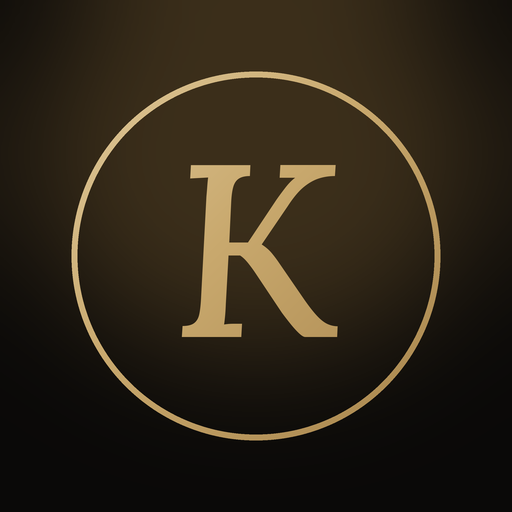
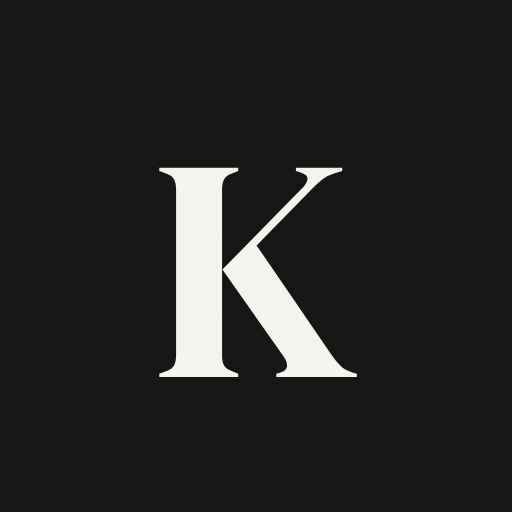
Kennach v20 : design Atelier, plus d'émoji, 9 bugs corrigés

diff --git a/index.html b/index.html
@@ -4,7 +4,7 @@
 <meta charset="utf-8">
 <meta name="viewport" content="width=device-width, initial-scale=1, viewport-fit=cover">
 <title>Kennach</title>
-<meta name="theme-color" content="#0A0908">
+<meta name="theme-color" content="#F5F3EE">
 <meta name="apple-mobile-web-app-capable" content="yes">
 <meta name="mobile-web-app-capable" content="yes">
 <meta name="apple-mobile-web-app-status-bar-style" content="black-translucent">
@@ -834,7 +834,7 @@ body.noms [data-prov=ms],body.noms [data-act=mslink],body.noms .msonly{display:n
 
 body.sa [data-nav=mails],body.sa [data-nav=veille],body.sa [data-nav=photo],body.sa [data-nav=ask],body.sa [data-nav=import],body.sa [data-act=askact]{display:none!important}
 </style>
-<link rel="preconnect" href="https://fonts.googleapis.com"><link rel="preconnect" href="https://fonts.gstatic.com" crossorigin><link href="https://fonts.googleapis.com/css2?family=Cormorant+Garamond:ital,wght@0,500;0,600;1,500;1,600&family=Manrope:wght@400;500;600;700&display=swap" rel="stylesheet">
+<link rel="preconnect" href="https://fonts.googleapis.com"><link rel="preconnect" href="https://fonts.gstatic.com" crossorigin><link href="https://fonts.googleapis.com/css2?family=DM+Serif+Display&family=DM+Sans:opsz,wght@9..40,400;9..40,500;9..40,600;9..40,700&display=swap" rel="stylesheet">
 <style id="kdesign">/* ===== Kennach · « Maison » (v13) : noir, ivoire et or ===== */
 html body.sa{
  --serif:"Cormorant Garamond","Cormorant",Didot,"Bodoni 72","Playfair Display",Georgia,serif;
@@ -1306,6 +1306,59 @@ html body.sa .ach-next.done{font:600 15px/1.3 var(--f);color:var(--gold);padding
 html body.sa .ach-rt{flex-direction:column;align-items:flex-start;gap:2px}
 html body.sa .ach-rt b{max-width:100%;white-space:normal;display:-webkit-box;-webkit-line-clamp:2;-webkit-box-orient:vertical}
 html body.sa .ach-rt span{white-space:nowrap;overflow:hidden;text-overflow:ellipsis;max-width:100%}
+
+/* ================= v20 : design « Atelier » (ivoire, encre, DM Serif + DM Sans) — remplace l'or ================= */
+html body.sa{--serif:"DM Serif Display",Georgia,"Times New Roman",serif;--f:"DM Sans",-apple-system,BlinkMacSystemFont,"Segoe UI Variable Text","Segoe UI",system-ui,sans-serif;--f-d:var(--serif)}
+html.klight body.sa{--bg:#F5F3EE;--surface:#FFFFFF;--surface-2:#EEEBE4;--surface-3:#E2DED5;--ink:#161616;--text:#1E1E1E;--text-2:#55524C;--text-3:#77736B;--gold:#161616;--gold-2:#2B2B2B;--gold-3:#161616;--gold-grad:linear-gradient(180deg,#262626,#111111);--on-gold:#FFFFFF;--accent:#161616;--accent-soft:rgba(22,22,22,.06);--line:rgba(22,22,22,.2);--border:rgba(22,22,22,.09);--border-2:rgba(22,22,22,.16);--glow:transparent;--glow2:transparent;--red:#B3261E;--e1:0 1px 2px rgba(22,22,22,.04);--e2:0 18px 40px -24px rgba(22,22,22,.22);--e3:0 30px 80px -30px rgba(22,22,22,.28),0 0 0 1px var(--border)}
+html.kdark body.sa{--bg:#111111;--surface:#1A1A1A;--surface-2:#222222;--surface-3:#2C2C2C;--ink:#F3F1EC;--text:#E9E6E0;--text-2:#A9A59D;--text-3:#7B776F;--gold:#F3F1EC;--gold-2:#DEDAD2;--gold-3:#FFFFFF;--gold-grad:linear-gradient(180deg,#FFFFFF,#E3DFD7);--on-gold:#111111;--accent:#F3F1EC;--accent-soft:rgba(243,241,236,.07);--line:rgba(243,241,236,.22);--border:rgba(243,241,236,.08);--border-2:rgba(243,241,236,.15);--glow:transparent;--glow2:transparent;--red:#F2786C;--e1:0 1px 0 rgba(255,255,255,.03) inset;--e2:0 24px 50px -24px rgba(0,0,0,.8);--e3:0 40px 120px -30px rgba(0,0,0,.9),0 0 0 1px var(--border)}
+html body.sa{font-family:var(--f)}
+html body.sa h1,html body.sa h2,html body.sa .greet,html body.sa .hero,html body.sa .hero *,html body.sa .writebtn *,html body.sa .cmp-t,html body.sa .ncard-t,html body.sa .know-h span,html body.sa .achq-h b{font-style:normal!important}
+html body.sa .greet,html body.sa h1{background:none!important;-webkit-text-fill-color:currentColor!important;color:var(--ink)!important}
+html body.sa h1{letter-spacing:-.01em;font-weight:400}
+html body.sa::after,html body.sa::before{display:none!important}
+html body.sa .btn.pri,html body.sa .cmp-done{background:var(--gold-grad)!important;color:var(--on-gold)!important;box-shadow:none!important;border:0!important}
+html body.sa .lbl2,html body.sa .grp{letter-spacing:.12em}
+html body.sa .grp::before{color:var(--text-3)!important}
+html.klight body.sa .writebtn,html.kdark body.sa .writebtn{background:var(--surface)!important;border:1px solid var(--border-2)!important;box-shadow:var(--e1)!important}
+html body.sa .know,html body.sa .achq{background:var(--surface)!important}
+html body.sa .ach-st.cur,html body.sa .know-sign{background:var(--accent-soft)!important}
+#klogin{background:#F5F3EE!important;color:#161616!important;font-family:"DM Sans",-apple-system,"Segoe UI",system-ui,sans-serif!important}
+#klogin h1{font-family:"DM Serif Display",Georgia,serif!important;font-style:normal!important;font-weight:400!important;color:#161616!important;-webkit-text-fill-color:#161616!important;background:none!important;letter-spacing:-.01em!important}
+#klogin p,#klogin .klast{color:#55524C!important}
+#klogin .klast b{color:#161616!important}
+#klogin .lg{background:#161616!important;color:#F5F3EE!important;font-family:"DM Serif Display",Georgia,serif!important;font-style:normal!important}
+#klogin #kgo{background:#161616!important;color:#FFFFFF!important;border:0!important}
+#klogin button:not(#kgo){background:#FFFFFF!important;color:#161616!important;border:1px solid rgba(22,22,22,.16)!important}
+/* v20 : message qui ne bloque rien, au-dessus de la barre du bas */
+html body.sa .toast,html body.sa .toast.on{pointer-events:none!important}
+html body.sa .toast #tu,html body.sa .toast button{pointer-events:auto!important}
+@media (max-width:820px){html body.sa .toast{bottom:calc(96px + env(safe-area-inset-bottom,0px))!important}}
+/* v20 : la date d'Aujourd'hui n'est jamais coupée */
+html body.sa .hdr.hero{gap:12px}
+html body.sa .hdr.hero{flex-wrap:nowrap;align-items:flex-start}
+html body.sa .hdr.hero>div:first-child{flex:1 1 auto!important;min-width:0!important;width:auto!important}
+html body.sa .hdr.hero>.act{flex:0 0 auto!important;width:auto!important;min-width:0!important}
+html body.sa .hdr.hero .greet{white-space:nowrap!important;overflow:hidden;text-overflow:ellipsis;display:block}
+html body.sa .hdr.hero .date-big{white-space:normal!important;overflow:visible!important;text-overflow:clip!important;overflow-wrap:break-word;font-size:clamp(34px,10.5vw,54px)!important;line-height:1.02!important}
+/* v20 : icônes fines à la place des émojis */
+html body.sa .kicw{display:inline-flex;vertical-align:-2px;margin-right:4px}
+html body.sa .kicw .kic{width:15px;height:15px}
+html.klight body.sa .greet,html.kdark body.sa .greet{color:var(--text-2)!important;-webkit-text-fill-color:var(--text-2)!important;letter-spacing:.18em}
+/* v20 : finitions Atelier vues sur capture */
+html body.sa,html body.sa *{font-synthesis-weight:none;font-synthesis:none}
+html body.sa .date-big,html body.sa .hero .date-big *{background:none!important;-webkit-text-fill-color:var(--ink)!important;color:var(--ink)!important;font-weight:400!important}
+html body.sa h1,html body.sa .know-h span,html body.sa .achq-h b,html body.sa .ncard-t,html body.sa .cmp-t{font-weight:400!important}
+html body.sa ::placeholder{font-style:normal!important}
+#klogin .lg{box-shadow:none!important;filter:none!important}
+#klogin .lg::before,#klogin .lg::after{display:none!important}
+html body.sa .toast{background:var(--ink)!important;color:var(--bg)!important;white-space:nowrap;max-width:calc(100% - 32px)}
+html body.sa .toast span{overflow:hidden;text-overflow:ellipsis}
+html body.sa .toast span::before{background:currentColor!important;opacity:.5}
+html body.sa .toast button{color:var(--bg)!important;opacity:.85}
+/* v20 : une note qui se ferme ne bloque plus les clics pendant son animation */
+html body.sa .drawer:not(.on){pointer-events:none!important}
+/* v20 : titre d'une note ou d'un dossier entier sur téléphone (DM Serif est large) */
+@media (max-width:820px){html body.sa #drawer .cmp-t{font-size:clamp(24px,7.4vw,30px)!important;letter-spacing:-.005em}}
 </style>
 </head>
 <body>
@@ -3380,7 +3433,7 @@ const PLUR=[[/(\b1|\b0) élément\(s\)/g,"$1 élément"],[/élément\(s\)/g,"él
 /* [42] pluriels aussi dans les messages */
 {const _t9=toast;toast=function(msg,undo,cls,ms){let s=String(msg);s=s.replace(/\b([01]) ([a-zéèêàçûô]+)\(s\)/gi,"$1 $2").replace(/\b(\d+) ([a-zéèêàçûô]+)\(s\)/gi,"$1 $2s").replace(/\(s\)/g,"s");return _t9(s,undo,cls,ms)}}
 /* version visible (pour vérifier la mise à jour) */
-const KVER="19";
+const KVER="20";
 {const _rs12=renderSide;renderSide=function(){_rs12();const b=$("#side .brand span");if(b&&!$("#side .kver"))b.insertAdjacentHTML("afterend",`<span class="kver">v${KVER}</span>`)}}
 {const _vs12=V.settings;V.settings=()=>_vs12().replace("<b>Système</b>",`<b>Système</b> <span class="kver">version ${KVER}</span>`)}
 
@@ -3917,6 +3970,7 @@ document.addEventListener("click",e=>{const x=e.target.closest&&e.target.closest
  const kind=/resiliation/.test(norm(title+" "+body))?"resiliation":/contrat/.test(norm(title+" "+body))?"contrat":"achat";
  const a=achNew({title,body,space:c.space||null,kind});if(old){a.id=old.id;a.createdAt=old.createdAt}
  if(old&&old.remindAt){a.remindAt=old.remindAt;a.reminded=old.reminded}
+ if(old&&old.due)a.due=old.due;
  putItem(a);try{localStorage.removeItem("k_cmpdraft")}catch(_){}U.cmp=null;$("#drawer").classList.remove("compose");achOpen(a.id);U.ach.isNew=true},true);
 
 /* ---------- page Achats ---------- */
@@ -3936,7 +3990,7 @@ V.achats=()=>{const L=achList().sort((x,y)=>new Date(y.updatedAt||y.createdAt)-n
 document.addEventListener("click",e=>{const t=e.target.closest&&e.target.closest("[data-act=achnew]");if(!t)return;e.preventDefault();e.stopImmediatePropagation();achOpen(null)},true);
 /* Plus : Achats sous « En attente de » */
 {const _ms19=moreSheet;moreSheet=function(){const r=_ms19.apply(this,arguments);const w=document.querySelector('#drawer [data-nav="waiting"]');if(w&&!document.querySelector('#drawer [data-nav="achats"]')){const n=Object.values(achSignQueue()).flat().length;
- w.insertAdjacentHTML("afterend",`<button class="sp" style="display:flex;gap:12px;align-items:center;padding:12px 14px" data-nav="achats"><span class="ic" style="width:24px;height:24px">${ICN.edit||I.note}</span><div style="flex:1;min-width:0"><b style="font-size:15px">Achats</b><p style="margin:0">BC, factures, parapheur : qui doit signer quoi</p></div>${n?`<span class="chip t-task">${n}</span>`:""}</button>`)}return r}}
+ w.insertAdjacentHTML("afterend",`<button class="sp" style="display:flex;gap:12px;align-items:center;padding:12px 14px" data-nav="achats"><span class="ic" style="width:24px;height:24px"><svg width="20" height="20" viewBox="0 0 24 24" fill="none" stroke="currentColor" stroke-width="1.7" stroke-linecap="round" stroke-linejoin="round"><path d="M3.5 7.5a2 2 0 0 1 2-2h4l2 2h7a2 2 0 0 1 2 2v8a2 2 0 0 1-2 2h-13a2 2 0 0 1-2-2z"/></svg></span><div style="flex:1;min-width:0"><b style="font-size:15px">Achats</b><p style="margin:0">BC, factures, parapheur : qui doit signer quoi</p></div>${n?`<span class="chip t-task">${n}</span>`:""}</button>`)}return r}}
 {const i=MORE_V.indexOf("achats");if(i<0)MORE_V.push("achats")}
 /* Notes : les dossiers ont leur page, ils ne s'affichent pas dans Notes */
 {const _vn19=V.notes;V.notes=()=>{const L=achList();L.forEach(i=>{i.__ad=i.deletedAt;i.deletedAt="__ach"});try{return _vn19()}finally{L.forEach(i=>{i.deletedAt=i.__ad||null;delete i.__ad})}}}
@@ -3946,6 +4000,38 @@ function achNowRow(){if(U.view!=="today")return;const v=$("#view");if(!v||v.quer
  const n=Object.values(q).flat().length;const hd=k.querySelector(".know-h b");if(hd)hd.textContent=String((+hd.textContent||0)+new Set(Object.values(q).flat().map(i=>i.id)).size);
  k.querySelector(".know-h").insertAdjacentHTML("afterend",`<button class="know-sign" data-nav="achats"><b>À faire signer</b><span>${names.sort((a,b)=>q[b].length-q[a].length).map(nm=>esc(nm)+" ("+q[nm].length+")").join(" · ")}</span></button>`)}
 {const _r19=render;render=function(){_r19.apply(this,arguments);try{achNowRow()}catch(_){}}}
+
+/* ================= v20 : design Atelier + bugs du robot ================= */
+/* [B] émojis d'interface → icônes fines (règle de design). Le texte de l'utilisateur n'est jamais touché. */
+const K20_SVG=p=>`<svg class="kic" width="15" height="15" viewBox="0 0 24 24" fill="none" stroke="currentColor" stroke-width="1.7" stroke-linecap="round" stroke-linejoin="round" aria-hidden="true">${p}</svg>`;
+const K20_ICON={
+ "⏳":K20_SVG('<circle cx="12" cy="12" r="8.5"/><path d="M12 7.5V12l3 2"/>'),
+ "☑":K20_SVG('<rect x="4" y="4" width="16" height="16" rx="3"/><path d="m8.5 12 2.5 2.5 4.5-5"/>'),
+ "📌":K20_SVG('<path d="M9 4h6l-1 5 3 3H7l3-3z"/><path d="M12 15v5"/>'),
+ "📅":K20_SVG('<rect x="4" y="5" width="16" height="15" rx="2.5"/><path d="M4 10h16M9 3v4M15 3v4"/>'),
+ "🗓":K20_SVG('<rect x="4" y="5" width="16" height="15" rx="2.5"/><path d="M4 10h16M9 3v4M15 3v4"/>'),
+ "🔔":K20_SVG('<path d="M6 16V11a6 6 0 0 1 12 0v5l1.5 2h-15z"/><path d="M10 20a2 2 0 0 0 4 0"/>'),
+ "✉":K20_SVG('<rect x="3.5" y="5.5" width="17" height="13" rx="2.5"/><path d="m4.5 7 7.5 6 7.5-6"/>'),
+ "📁":K20_SVG('<path d="M3.5 7.5a2 2 0 0 1 2-2h4l2 2h7a2 2 0 0 1 2 2v8a2 2 0 0 1-2 2h-13a2 2 0 0 1-2-2z"/>'),
+ "🎙":K20_SVG('<rect x="9" y="3.5" width="6" height="11" rx="3"/><path d="M6 11a6 6 0 0 0 12 0M12 17v3.5"/>'),
+ "📓":K20_SVG('<path d="M6 4h11a1 1 0 0 1 1 1v15H7a2 2 0 0 1-2-2V5a1 1 0 0 1 1-1z"/><path d="M9 8h6"/>'),
+ "📥":K20_SVG('<path d="M4 13h4l1.5 2.5h5L16 13h4v5a2 2 0 0 1-2 2H6a2 2 0 0 1-2-2z"/><path d="M12 4v8m-3-3 3 3 3-3"/>'),
+ "⬇":K20_SVG('<path d="M12 4v11m-4.5-4.5L12 15l4.5-4.5M5 20h14"/>')
+};
+const K20_ANY=/(?![\u2713\u2714\u2717\u2715])[\u{1F300}-\u{1FAFF}\u{2600}-\u{27BF}\u{2B00}-\u{2BFF}\u{1F000}-\u{1F2FF}\u{231A}-\u{23FF}\u{25B6}\u{25C0}]\u{FE0F}?/gu;
+const K20_USER=".ttl,.ncard-t,.ncard-s,.mdv,.cmp-t,.cmp-b,textarea,input,select,.krem-r span,.ach-rt b,.fbody,.pv,.cmp-pv,[contenteditable]";
+function k20Clean(root){if(!root||!root.querySelectorAll)return;const tw=document.createTreeWalker(root,NodeFilter.SHOW_TEXT,{acceptNode:n=>{const el=n.parentElement;if(!el||el.closest(K20_USER))return NodeFilter.FILTER_REJECT;K20_ANY.lastIndex=0;return K20_ANY.test(n.textContent)&&!/^[✓✔→←↻↺·•…]$/.test(n.textContent.trim())?NodeFilter.FILTER_ACCEPT:NodeFilter.FILTER_SKIP}});
+ const L=[];let n;while(n=tw.nextNode())L.push(n);
+ L.forEach(n=>{const parts=n.textContent.split(K20_ANY);const emos=n.textContent.match(K20_ANY)||[];if(!emos.length)return;const frag=document.createDocumentFragment();
+  parts.forEach((t,i)=>{if(i>0){const e=emos[i-1].replace("","");const ic=K20_ICON[e];if(ic){const s=document.createElement("span");s.className="kicw";s.innerHTML=ic;frag.appendChild(s)}else{t=t.replace(/^\s+/,i===1&&!parts[0].trim()?"":" ")}}
+   if(i===0&&emos.length&&!t.trim())t="";frag.appendChild(document.createTextNode(t))});
+  n.replaceWith(frag)})}
+{let pend=false;const mo=new MutationObserver(()=>{if(pend)return;pend=true;requestAnimationFrame(()=>{pend=false;["#view","#drawer","#toast","#side","#bnav","#mtop","#pal"].forEach(s=>k20Clean($(s)))})});
+ ["#view","#drawer","#toast","#side","#bnav","#mtop"].forEach(s=>{const e=$(s);if(e)mo.observe(e,{childList:true,subtree:true,characterData:true})});const pl=$("#pal");if(pl)mo.observe(pl,{childList:true,subtree:true})}
+{const _r20=render;render=function(){_r20.apply(this,arguments);["#view","#side","#bnav","#mtop"].forEach(s=>k20Clean($(s)))}}
+{const _t20=toast;toast=function(){const r=_t20.apply(this,arguments);k20Clean($("#toast"));return r}}
+/* [B] Reprendre = des notes ; les dossiers d'achat ont leur page */
+{const _vt20=V.today;V.today=()=>{const L=achList();L.forEach(i=>{i.__ad=i.deletedAt;i.deletedAt="__ach"});try{return _vt20()}finally{L.forEach(i=>{i.deletedAt=i.__ad||null;delete i.__ad})}}}
 
 document.body.classList.add("sa");
 boot();

diff --git a/sw.js b/sw.js
@@ -1,5 +1,5 @@
 // Kennach : app disponible hors connexion (les notes sont gérées par Firestore)
-const C="kennach-v19";const SHELL=["./","./index.html","./manifest.webmanifest","./icon-192.png","./icon-512.png","./apple-touch-icon.png"];
+const C="kennach-v20";const SHELL=["./","./index.html","./manifest.webmanifest","./icon-192.png","./icon-512.png","./apple-touch-icon.png"];
 self.addEventListener("install",e=>{e.waitUntil(caches.open(C).then(c=>c.addAll(SHELL)).then(()=>self.skipWaiting()))});
 self.addEventListener("activate",e=>{e.waitUntil(caches.keys().then(k=>Promise.all(k.filter(x=>x!==C).map(x=>caches.delete(x)))).then(()=>self.clients.claim()))});
 self.addEventListener("fetch",e=>{const r=e.request;if(r.method!=="GET")return;const u=new URL(r.url);
